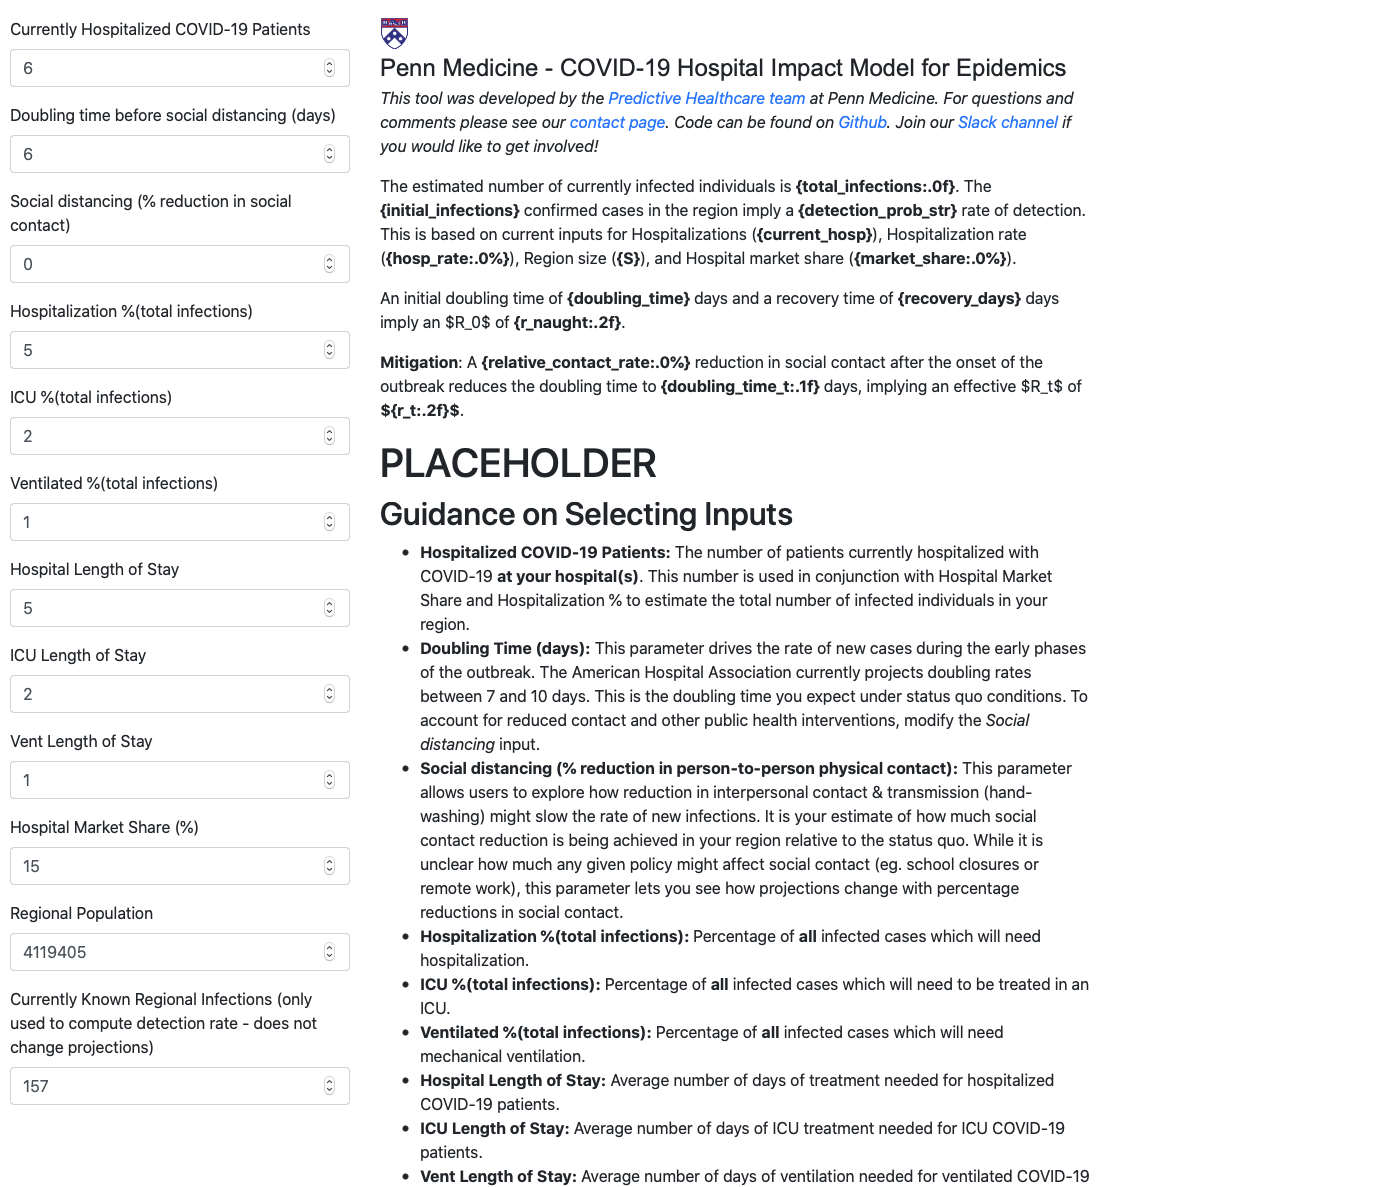
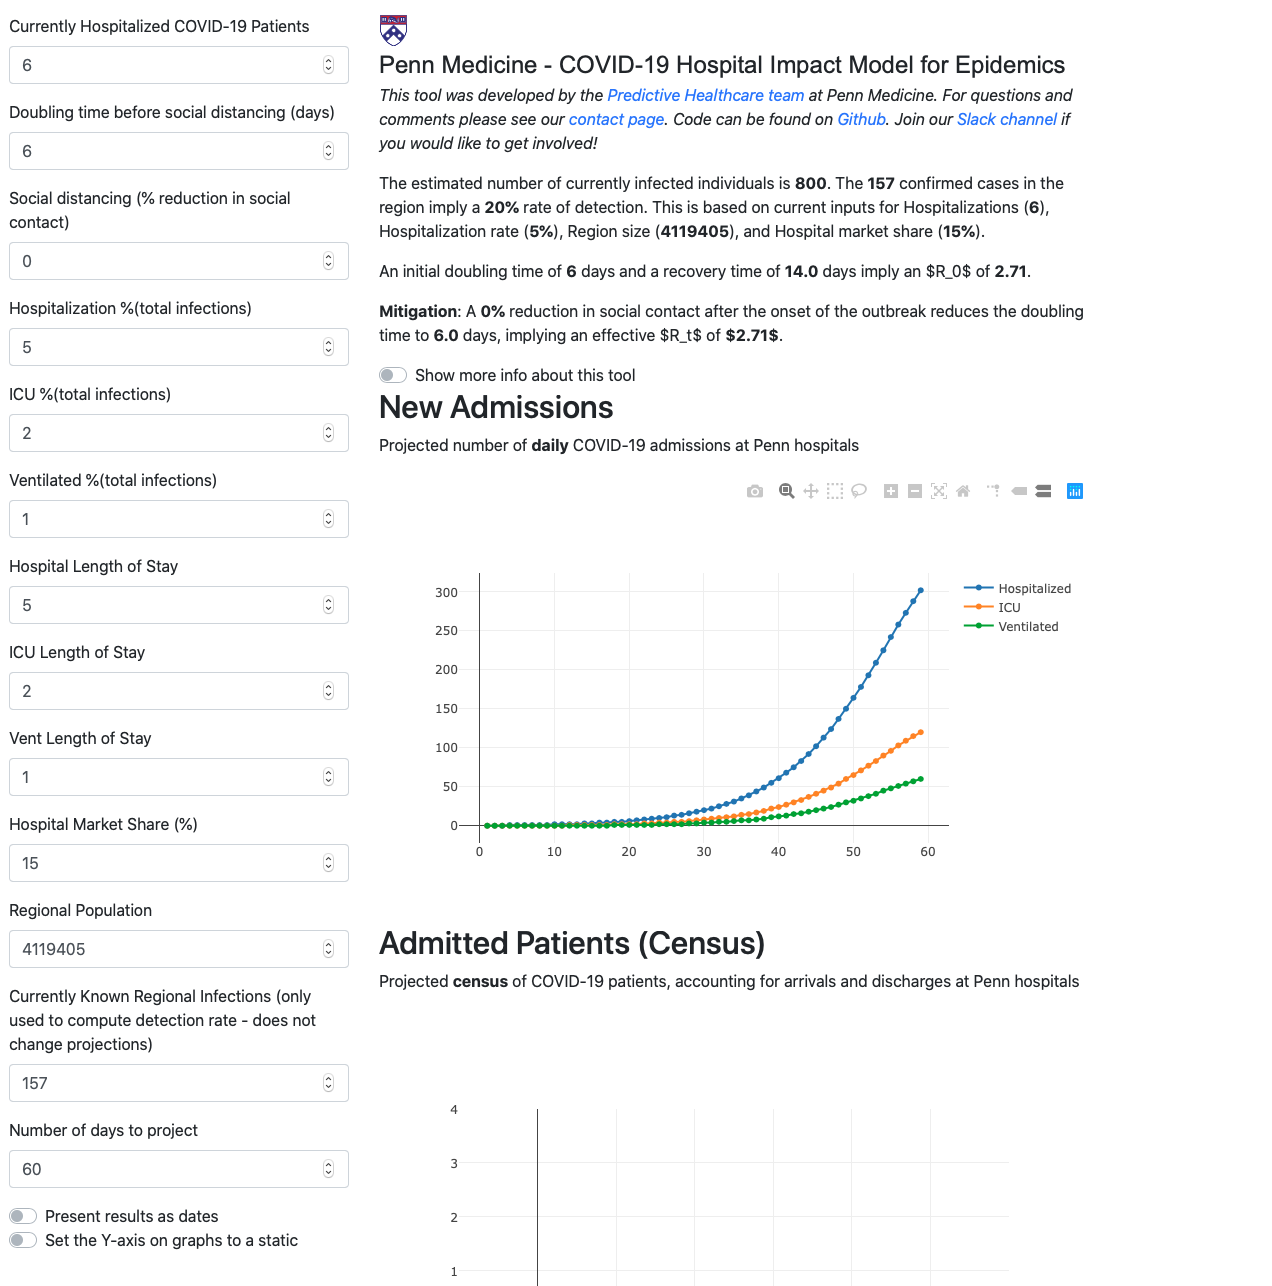
More content port

diff --git a/src/dash_app.py b/src/dash_app.py
@@ -76,7 +76,8 @@ def render_intro(*args):
         hospitalized=RateLos(kwargs["hospitalized_rate"], kwargs["hospitalized_los"]),
         icu=RateLos(kwargs["icu_rate"], kwargs["icu_los"]),
         ventilated=RateLos(kwargs["ventilated_rate"], kwargs["ventilated_los"]),
-        max_y_axis=None,
+        max_y_axis=kwargs["max_y_axis"],
+        n_days=kwargs["n_days"],
     )
     detection_prob_str = (
         "{detection_probability:.0%}".format(
@@ -101,13 +102,13 @@ def render_intro(*args):
         doubling_time_t=pars.doubling_time_t,
     )
 
-    pars.n_days = 40
     projection_admits = build_admissions_df(pars.n_days, *pars.dispositions)
 
-    as_date = False
-
     new_admissions_figure = new_admissions_chart(
-        projection_admits, pars.n_days - 10, as_date=as_date, max_y_axis=pars.max_y_axis
+        projection_admits,
+        pars.n_days - 10,
+        as_date=kwargs["as_date"],
+        max_y_axis=pars.max_y_axis,
     )
 
     return (intro_md, new_admissions_figure)

diff --git a/src/chime_dash/presentation.py b/src/chime_dash/presentation.py
@@ -21,6 +21,13 @@ def display_sidebar(
 
     # Find id's for forms
     for el in YML_TEMPLATES[language]["sidebar-bare.yml"]:
+        idx = el["id"]
+
+        if not el["element"] == "formgroup":
+            parameter_keys.append(idx)
+            yaml.append(el)
+            continue
+
         children = []
 
         caption = el.pop("caption", None)
@@ -33,7 +40,6 @@ def display_sidebar(
         form["element"] = "input"
 
         # Get default values
-        idx = form["id"]
         if "rate" in idx:
             split = idx.split("_")
             val = getattr(getattr(defaults, split[0], {}), "rate", 0) * 100

diff --git a/src/chime_dash/utils.py b/src/chime_dash/utils.py
@@ -34,6 +34,7 @@ DASH_HTML_ELEMENTS = {
     "slider": Slider,
     "input": dbc.Input,
     "label": dbc.Label,
+    "checklist": dbc.Checklist,
     "formtext": dbc.FormText,
     "formgroup": dbc.FormGroup,
     "row": dbc.Row,
